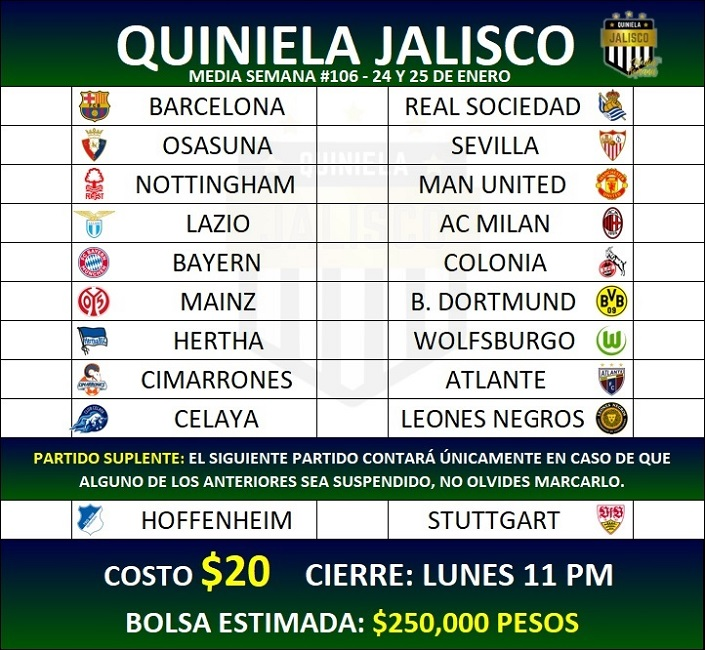
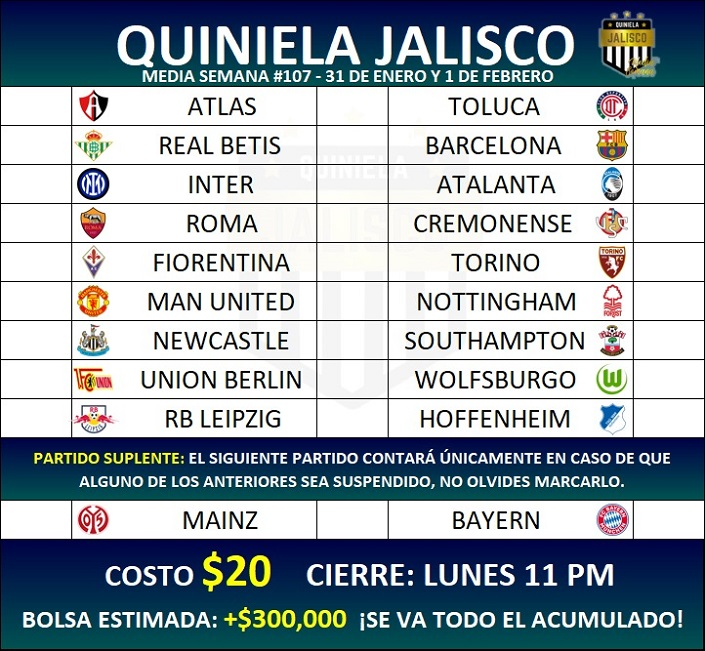
Media Semana #107

diff --git a/MediaSemana/stylesmSusp.css b/MediaSemana/stylesmSusp.css
@@ -93,8 +93,8 @@ body{
     margin-top: 9%;
     border: solid 1px black;
     border-radius: 0 0 14px 14px;
-    background: -webkit-linear-gradient(1turn, rgb(0,2,67)  ,rgb(1,49,28) 80%);
-    background: linear-gradient(1turn, rgb(0,2,67)  ,rgb(1,49,28) 80%);
+    background: -webkit-linear-gradient(1turn, rgb(0,2,67)  ,rgb(6,78,78) 80%);
+    background: linear-gradient(1turn, rgb(0,2,67)  ,rgb(6,78,78) 80%);
 }
 
 .text-lg{
@@ -289,7 +289,7 @@ h6{
 }
 
 #cantidad:before{
-    content:' $250,000 pesos';
+    content:' $300,000 pesos';
     color: yellow;
     white-space:pre;
 }
